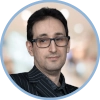
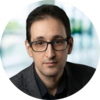
Correction de styles et remplacement des images de profil et de présentation.

diff --git a/src/Styles/theme.scss b/src/Styles/theme.scss
@@ -136,6 +136,8 @@ img.cover-profile {
     left: 50%;
     margin-left: -50px;
     margin-top: 50px;
+    outline: 2px solid var(--color2);
+    border-radius: 50%;
 }
 
 h1 {
@@ -352,7 +354,7 @@ div.section-grise1 p, div.section-grise1-dark p {
 img.col-contenu {
     width: 31%;
     border-radius: 15px;
-    border: 3px solid #9CC0DE;
+    border: 3px solid var(--color2);
 }
 
 div.col-contenu {
@@ -543,7 +545,7 @@ div.barre-verticale {
 }
 
 .image-bordered {
-    border: 3px solid #454545;
+    border: 1px solid gray;
 }
 
 .image-shadow {
@@ -587,14 +589,22 @@ h2.frame-title {
 
 div.frame img {
     width: 100px;
+    outline: 2px solid var(--color2);
+    border-radius: 50%;
 }
 
 
 // PORTFOLIO
+.portfolio-project-page {
+    min-height: 100vh;
+}
+
 .portfolio-header {
     height: 90px;
     background: url(../Images/header.webp) no-repeat center/cover;
     position: relative;
+    display: flex;
+    
 }
 
 .portfolio-header-title {
@@ -602,7 +612,6 @@ div.frame img {
     font-size: 26px;
     font-weight: bold;
     color: white;
-    padding-top: 4px;
     padding-left: 8px;
 }
 
@@ -905,7 +914,7 @@ img.portfolio {
 
     .portfolio-header-title {
         font-size: 19px;
-        padding-top: 10px;
+        padding-top: 15px;
         padding-left: 4px;
     }
 

diff --git a/src/Components/Header.jsx b/src/Components/Header.jsx
@@ -59,7 +59,7 @@ function Header() {
                 <header className="portfolio-header">
                     <div
                         className="texte-avec-ligne-verticale"
-                        style={{ marginLeft: 16, marginTop: 22, height: 45 }}
+                        style={{ marginLeft: 16, height: 45 }}
                     >
                         <p className="portfolio-header-title">Rafik Ben Sadi</p>
                     </div>

diff --git a/src/Pages/Project.jsx b/src/Pages/Project.jsx
@@ -19,7 +19,7 @@ function Project() {
 
 
     return (
-        <div className={`${colorMainMode}`}>
+        <div className={`${colorMainMode} portfolio-project-page`}>
             {/* SECTION GRISE TITRE */}
             <div className={`section section-grise-project${colorElementMode} project-section`}>
                 <div className={`section-grise-project-overlay${colorElementMode}`} />
